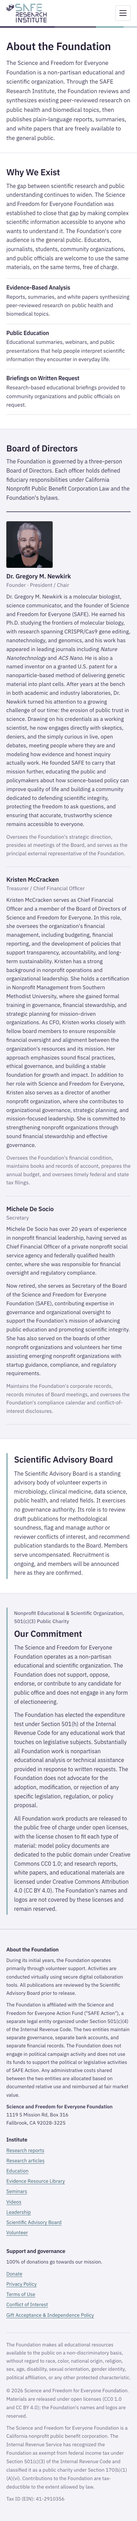
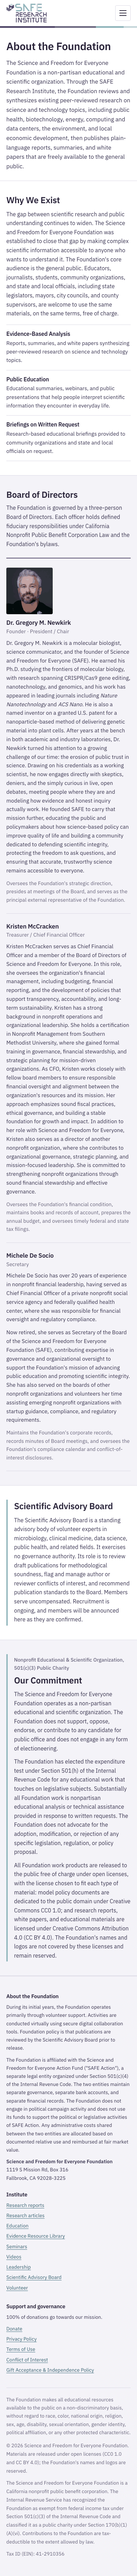
Copy: widen scope to science and technology, name state and local audiences, state review as policy
The Institute's stated scope is now science and technology topics with
public health as one area. The audience sentence names state and local
officials. Lines that said publications "are reviewed" by the Scientific
Advisory Board now state it as Foundation policy, because no board
members are named yet.

Changed region(s): [[0.0308, 0.0, 0.9231, 0.9983], [0.0308, 0.624, 0.0615, 0.6551]]

diff --git a/index.html b/index.html
@@ -4,12 +4,12 @@
   <meta charset="UTF-8">
   <meta name="viewport" content="width=device-width, initial-scale=1.0">
   <title>SAFE Research Institute | Evidence-Based Education for the Public</title>
-  <meta name="description" content="The SAFE Research Institute is the educational platform of the Science and Freedom for Everyone Foundation, a non-partisan public charity that translates peer-reviewed research into clear, accessible information on public health and biomedical science.">
+  <meta name="description" content="The SAFE Research Institute is the educational platform of the Science and Freedom for Everyone Foundation, a non-partisan public charity that translates peer-reviewed research into clear, accessible information on science and technology, from public health and biotechnology to energy, computing, and the environment.">
   <link rel="canonical" href="https://saferi.org/">
   <meta property="og:type" content="website">
   <meta property="og:site_name" content="SAFE Research Institute">
   <meta property="og:title" content="SAFE Research Institute | Evidence-Based Education for the Public">
-  <meta property="og:description" content="Plain-language analyses of peer-reviewed health and biomedical research, freely available to the public.">
+  <meta property="og:description" content="Plain-language analyses of peer-reviewed science and technology research, freely available to the public.">
   <meta property="og:url" content="https://saferi.org/">
   <meta property="og:image" content="https://saferi.org/img/og/default.png">
   <meta property="og:image:width" content="1200">
@@ -49,7 +49,7 @@
   <div class="container">
     <div>
       <h1>Peer-reviewed research, translated into clear, accessible information.</h1>
-      <p>The Science and Freedom for Everyone Foundation is a non-partisan educational and scientific organization. Through the SAFE Research Institute, the Foundation reviews and synthesizes existing peer-reviewed research on public health and biomedical topics, then publishes plain-language reports, summaries, and white papers that are freely available to the general public.</p>
+      <p>The Science and Freedom for Everyone Foundation is a non-partisan educational and scientific organization. Through the SAFE Research Institute, the Foundation reviews and synthesizes existing peer-reviewed research on science and technology topics, including public health, biotechnology, energy, computing and data centers, the environment, and local economic development, then publishes plain-language reports, summaries, and white papers that are freely available to the general public.</p>
       <div class="hero-actions">
         <a href="research.html" class="btn btn-primary">Read the reports</a>
         <a href="about.html" class="btn btn-outline">About the Foundation</a>
@@ -70,7 +70,7 @@
       <div id="featuredCover"></div>
       <div>
         <h2>Latest</h2>
-        <p>Plain-language analyses of peer-reviewed public health and biomedical research, reviewed by the Foundation's Scientific Advisory Board.</p>
+        <p>Plain-language analyses of peer-reviewed research on science and technology topics, including public health, biotechnology, energy, computing and data centers, the environment, and local economic development. Foundation policy is that each report is reviewed by the Scientific Advisory Board before release.</p>
         <div class="table-wrap">
           <table class="data-table reports-table stack" id="latestReports">
             <thead><tr><th scope="col">Title</th><th scope="col">Date</th><th scope="col">Type</th><th scope="col">PDF</th></tr></thead>
@@ -83,7 +83,7 @@
     <div class="standards">
       <h3>Publication standards</h3>
       <dl>
-        <dt>Review</dt><dd>All publications are reviewed by the Scientific Advisory Board prior to release.</dd>
+        <dt>Review</dt><dd>Foundation policy is that each report is reviewed by the Scientific Advisory Board before release. Members are announced as they are confirmed.</dd>
         <dt>License</dt><dd>Research reports, white papers, and educational materials: CC BY 4.0.</dd>
         <dt>Access</dt><dd>Freely available to the public.</dd>
         <dt>Independence</dt><dd><a href="gift-acceptance.html">Gift Acceptance &amp; Independence Policy</a></dd>
@@ -102,7 +102,7 @@
     <div class="pillars-grid">
       <div class="pillar-card" id="activity-research">
         <h3>Research Analysis and Scientific Publications</h3>
-        <p>The Foundation reviews and synthesizes existing peer-reviewed scientific literature on public health and biomedical topics. Findings are compiled into reports, summaries, and white papers and published on the Institute's website, freely available to the public.</p>
+        <p>The Foundation reviews and synthesizes existing peer-reviewed scientific literature on science and technology topics, including public health and biomedicine. Findings are compiled into reports, summaries, and white papers and published on the Institute's website, freely available to the public.</p>
         <p class="pillar-need"><strong>Who we need:</strong> Scientists, MDs, and data scientists.</p>
         <a href="volunteer.html?group=experts" class="pillar-cta">Apply to volunteer</a>
       </div>
@@ -140,7 +140,7 @@
     <div class="why-grid">
       <div class="why-text">
         <h2>Why We Exist</h2>
-        <p>The gap between scientific research and public understanding continues to widen. The Science and Freedom for Everyone Foundation was established to close that gap by making complex scientific information accessible to anyone who wants to understand it. The Foundation's core audience is the general public. Educators, journalists, students, community organizations, and public officials are welcome to use the same materials, on the same terms, free of charge.</p>
+        <p>The gap between scientific research and public understanding continues to widen. The Science and Freedom for Everyone Foundation was established to close that gap by making complex scientific information accessible to anyone who wants to understand it. The Foundation's core audience is the general public. Educators, journalists, students, community organizations, and state and local officials, including state legislators, mayors, city councils, and county supervisors, are welcome to use the same materials, on the same terms, free of charge.</p>
         <p><a href="about.html">About the Foundation, its board, and its commitments</a></p>
       </div>
       <div>
@@ -169,7 +169,7 @@
       <a href="blog.html" class="content-card">
         <div class="content-card-tag">Research Articles</div>
         <h3>Research Publications &amp; Analysis</h3>
-        <p>Systematic review and synthesis of peer-reviewed public health and biomedical research, reviewed and approved by the Scientific Advisory Board.</p>
+        <p>Systematic review and synthesis of peer-reviewed science and technology research. Foundation policy is that publications are reviewed by the Scientific Advisory Board prior to release.</p>
       </a>
       <a href="videos.html" class="content-card">
         <div class="content-card-tag">Educational Media</div>
@@ -193,7 +193,7 @@
     <div class="footer-top">
       <div class="footer-about">
         <h3>About the Foundation</h3>
-        <p>During its initial years, the Foundation operates primarily through volunteer support. Activities are conducted virtually using secure digital collaboration tools. All publications are reviewed by the Scientific Advisory Board prior to release.</p>
+        <p>During its initial years, the Foundation operates primarily through volunteer support. Activities are conducted virtually using secure digital collaboration tools. Foundation policy is that publications are reviewed by the Scientific Advisory Board prior to release.</p>
         <p>The Foundation is affiliated with the Science and Freedom for Everyone Action Fund ("SAFE Action"), a separate legal entity organized under Section 501(c)(4) of the Internal Revenue Code. The two entities maintain separate governance, separate bank accounts, and separate financial records. The Foundation does not engage in political campaign activity and does not use its funds to support the political or legislative activities of SAFE Action. Any administrative costs shared between the two entities are allocated based on documented relative use and reimbursed at fair market value.</p>
         <address class="footer-address">
           <strong>Science and Freedom for Everyone Foundation</strong><br>

diff --git a/research.html b/research.html
@@ -4,12 +4,12 @@
   <meta charset="UTF-8">
   <meta name="viewport" content="width=device-width, initial-scale=1.0">
   <title>Research Reports | SAFE Research Institute</title>
-  <meta name="description" content="Research reports from the SAFE Research Institute: plain-language analyses of peer-reviewed public health and biomedical research, reviewed by the Foundation's Scientific Advisory Board and free to the public.">
+  <meta name="description" content="Research reports from the SAFE Research Institute: plain-language analyses of peer-reviewed research on science and technology topics, free to the public.">
   <link rel="canonical" href="https://saferi.org/research">
   <meta property="og:type" content="website">
   <meta property="og:site_name" content="SAFE Research Institute">
   <meta property="og:title" content="Research Reports | SAFE Research Institute">
-  <meta property="og:description" content="Research reports from the SAFE Research Institute: plain-language analyses of peer-reviewed public health and biomedical research, reviewed by the Foundation's Scientific Advisory Board and free to the public.">
+  <meta property="og:description" content="Research reports from the SAFE Research Institute: plain-language analyses of peer-reviewed research on science and technology topics, free to the public.">
   <meta property="og:url" content="https://saferi.org/research">
   <meta property="og:image" content="https://saferi.org/img/og/default.png">
   <meta property="og:image:width" content="1200">
@@ -47,7 +47,7 @@
 <section class="legal-hero">
   <div class="container">
     <h1>Research</h1>
-    <p>Plain-language analyses of peer-reviewed public health and biomedical research, reviewed by the Foundation's Scientific Advisory Board.</p>
+    <p>Plain-language analyses of peer-reviewed research on science and technology topics, including public health, biotechnology, energy, computing and data centers, the environment, and local economic development. Foundation policy is that each report is reviewed by the Scientific Advisory Board before release.</p>
   </div>
 </section>
 
@@ -103,7 +103,7 @@
     <div class="standards">
       <h3>Publication standards</h3>
       <dl>
-        <dt>Review</dt><dd>All publications are reviewed by the Scientific Advisory Board prior to release.</dd>
+        <dt>Review</dt><dd>Foundation policy is that each report is reviewed by the Scientific Advisory Board before release. Members are announced as they are confirmed.</dd>
         <dt>License</dt><dd>Research reports, white papers, and educational materials: CC BY 4.0.</dd>
         <dt>Access</dt><dd>Freely available to the public.</dd>
         <dt>Independence</dt><dd><a href="gift-acceptance.html">Gift Acceptance &amp; Independence Policy</a></dd>
@@ -122,7 +122,7 @@
       <a href="blog.html" class="content-card">
         <div class="content-card-tag">Research Articles</div>
         <h3>Research Publications &amp; Analysis</h3>
-        <p>Systematic review and synthesis of peer-reviewed public health and biomedical research, reviewed and approved by the Scientific Advisory Board.</p>
+        <p>Systematic review and synthesis of peer-reviewed science and technology research. Foundation policy is that publications are reviewed by the Scientific Advisory Board prior to release.</p>
       </a>
       <a href="videos.html" class="content-card">
         <div class="content-card-tag">Educational Media</div>
@@ -146,7 +146,7 @@
     <div class="footer-top">
       <div class="footer-about">
         <h3>About the Foundation</h3>
-        <p>During its initial years, the Foundation operates primarily through volunteer support. Activities are conducted virtually using secure digital collaboration tools. All publications are reviewed by the Scientific Advisory Board prior to release.</p>
+        <p>During its initial years, the Foundation operates primarily through volunteer support. Activities are conducted virtually using secure digital collaboration tools. Foundation policy is that publications are reviewed by the Scientific Advisory Board prior to release.</p>
         <p>The Foundation is affiliated with the Science and Freedom for Everyone Action Fund ("SAFE Action"), a separate legal entity organized under Section 501(c)(4) of the Internal Revenue Code. The two entities maintain separate governance, separate bank accounts, and separate financial records. The Foundation does not engage in political campaign activity and does not use its funds to support the political or legislative activities of SAFE Action. Any administrative costs shared between the two entities are allocated based on documented relative use and reimbursed at fair market value.</p>
         <address class="footer-address">
           <strong>Science and Freedom for Everyone Foundation</strong><br>

diff --git a/about.html b/about.html
@@ -46,7 +46,7 @@
 <section class="legal-hero">
   <div class="container">
     <h1>About the Foundation</h1>
-    <p>The Science and Freedom for Everyone Foundation is a non-partisan educational and scientific organization. Through the SAFE Research Institute, the Foundation reviews and synthesizes existing peer-reviewed research on public health and biomedical topics, then publishes plain-language reports, summaries, and white papers that are freely available to the general public.</p>
+    <p>The Science and Freedom for Everyone Foundation is a non-partisan educational and scientific organization. Through the SAFE Research Institute, the Foundation reviews and synthesizes existing peer-reviewed research on science and technology topics, including public health, biotechnology, energy, computing and data centers, the environment, and local economic development, then publishes plain-language reports, summaries, and white papers that are freely available to the general public.</p>
   </div>
 </section>
 
@@ -55,11 +55,11 @@
   <div class="container">
     <div class="why-text">
       <h2>Why We Exist</h2>
-      <p>The gap between scientific research and public understanding continues to widen. The Science and Freedom for Everyone Foundation was established to close that gap by making complex scientific information accessible to anyone who wants to understand it. The Foundation's core audience is the general public. Educators, journalists, students, community organizations, and public officials are welcome to use the same materials, on the same terms, free of charge.</p>
+      <p>The gap between scientific research and public understanding continues to widen. The Science and Freedom for Everyone Foundation was established to close that gap by making complex scientific information accessible to anyone who wants to understand it. The Foundation's core audience is the general public. Educators, journalists, students, community organizations, and state and local officials, including state legislators, mayors, city councils, and county supervisors, are welcome to use the same materials, on the same terms, free of charge.</p>
       <div class="why-features">
           <div class="why-feature">
             <h4>Evidence-Based Analysis</h4>
-            <p>Reports, summaries, and white papers synthesizing peer-reviewed research on public health and biomedical topics.</p>
+            <p>Reports, summaries, and white papers synthesizing peer-reviewed research on science and technology topics.</p>
           </div>
           <div class="why-feature">
             <h4>Public Education</h4>
@@ -67,7 +67,7 @@
           </div>
           <div class="why-feature">
             <h4>Briefings on Written Request</h4>
-            <p>Research-based educational briefings provided to community organizations and public officials on request.</p>
+            <p>Research-based educational briefings provided to community organizations and state and local officials on request.</p>
           </div>
       </div>
     </div>
@@ -149,7 +149,7 @@
     <div class="footer-top">
       <div class="footer-about">
         <h3>About the Foundation</h3>
-        <p>During its initial years, the Foundation operates primarily through volunteer support. Activities are conducted virtually using secure digital collaboration tools. All publications are reviewed by the Scientific Advisory Board prior to release.</p>
+        <p>During its initial years, the Foundation operates primarily through volunteer support. Activities are conducted virtually using secure digital collaboration tools. Foundation policy is that publications are reviewed by the Scientific Advisory Board prior to release.</p>
         <p>The Foundation is affiliated with the Science and Freedom for Everyone Action Fund ("SAFE Action"), a separate legal entity organized under Section 501(c)(4) of the Internal Revenue Code. The two entities maintain separate governance, separate bank accounts, and separate financial records. The Foundation does not engage in political campaign activity and does not use its funds to support the political or legislative activities of SAFE Action. Any administrative costs shared between the two entities are allocated based on documented relative use and reimbursed at fair market value.</p>
         <address class="footer-address">
           <strong>Science and Freedom for Everyone Foundation</strong><br>

diff --git a/docs/templates/report.html b/docs/templates/report.html
@@ -89,7 +89,7 @@
       <li>{{REFERENCE}}</li>
     </ol>
 
-    <p class="report-note">This report is published by the SAFE Research Institute, the educational platform of the Science and Freedom for Everyone Foundation, for educational purposes. It presents facts, methodology, and the state of the scientific evidence. The Foundation does not recommend the adoption, modification, or rejection of any specific legislation, regulation, or policy proposal. All publications are reviewed by the Scientific Advisory Board prior to release.</p>
+    <p class="report-note">This report is published by the SAFE Research Institute, the educational platform of the Science and Freedom for Everyone Foundation, for educational purposes. It presents facts, methodology, and the state of the scientific evidence. The Foundation does not recommend the adoption, modification, or rejection of any specific legislation, regulation, or policy proposal. Foundation policy is that publications are reviewed by the Scientific Advisory Board prior to release.</p>
   </article>
 </div>
 
@@ -101,7 +101,7 @@
     <div class="footer-top">
       <div class="footer-about">
         <h3>About the Foundation</h3>
-        <p>During its initial years, the Foundation operates primarily through volunteer support. Activities are conducted virtually using secure digital collaboration tools. All publications are reviewed by the Scientific Advisory Board prior to release.</p>
+        <p>During its initial years, the Foundation operates primarily through volunteer support. Activities are conducted virtually using secure digital collaboration tools. Foundation policy is that publications are reviewed by the Scientific Advisory Board prior to release.</p>
         <p>The Foundation is affiliated with the Science and Freedom for Everyone Action Fund ("SAFE Action"), a separate legal entity organized under Section 501(c)(4) of the Internal Revenue Code. The two entities maintain separate governance, separate bank accounts, and separate financial records. The Foundation does not engage in political campaign activity and does not use its funds to support the political or legislative activities of SAFE Action. Any administrative costs shared between the two entities are allocated based on documented relative use and reimbursed at fair market value.</p>
         <address class="footer-address">
           <strong>Science and Freedom for Everyone Foundation</strong><br>

diff --git a/donate.html b/donate.html
@@ -138,7 +138,7 @@
         </div>
         <div class="pillar-focus">Activity 01</div>
         <h3>Research Analysis and Scientific Publications</h3>
-        <p>Fund systematic review and synthesis of peer-reviewed research on public health and biomedical topics, published as reports, summaries, and white papers freely available to the public.</p>
+        <p>Fund systematic review and synthesis of peer-reviewed research on science and technology topics, published as reports, summaries, and white papers freely available to the public.</p>
       </div>
 
       <!-- Activity 02 -->
@@ -220,7 +220,7 @@
     <div class="footer-top">
       <div class="footer-about">
         <h3>About the Foundation</h3>
-        <p>During its initial years, the Foundation operates primarily through volunteer support. Activities are conducted virtually using secure digital collaboration tools. All publications are reviewed by the Scientific Advisory Board prior to release.</p>
+        <p>During its initial years, the Foundation operates primarily through volunteer support. Activities are conducted virtually using secure digital collaboration tools. Foundation policy is that publications are reviewed by the Scientific Advisory Board prior to release.</p>
         <p>The Foundation is affiliated with the Science and Freedom for Everyone Action Fund ("SAFE Action"), a separate legal entity organized under Section 501(c)(4) of the Internal Revenue Code. The two entities maintain separate governance, separate bank accounts, and separate financial records. The Foundation does not engage in political campaign activity and does not use its funds to support the political or legislative activities of SAFE Action. Any administrative costs shared between the two entities are allocated based on documented relative use and reimbursed at fair market value.</p>
         <address class="footer-address">
           <strong>Science and Freedom for Everyone Foundation</strong><br>

diff --git a/admin.html b/admin.html
@@ -359,7 +359,7 @@
     <div class="footer-top">
       <div class="footer-about">
         <h3>About the Foundation</h3>
-        <p>During its initial years, the Foundation operates primarily through volunteer support. Activities are conducted virtually using secure digital collaboration tools. All publications are reviewed by the Scientific Advisory Board prior to release.</p>
+        <p>During its initial years, the Foundation operates primarily through volunteer support. Activities are conducted virtually using secure digital collaboration tools. Foundation policy is that publications are reviewed by the Scientific Advisory Board prior to release.</p>
         <p>The Foundation is affiliated with the Science and Freedom for Everyone Action Fund ("SAFE Action"), a separate legal entity organized under Section 501(c)(4) of the Internal Revenue Code. The two entities maintain separate governance, separate bank accounts, and separate financial records. The Foundation does not engage in political campaign activity and does not use its funds to support the political or legislative activities of SAFE Action. Any administrative costs shared between the two entities are allocated based on documented relative use and reimbursed at fair market value.</p>
         <address class="footer-address">
           <strong>Science and Freedom for Everyone Foundation</strong><br>

diff --git a/blog.html b/blog.html
@@ -134,7 +134,7 @@
     <div class="footer-top">
       <div class="footer-about">
         <h3>About the Foundation</h3>
-        <p>During its initial years, the Foundation operates primarily through volunteer support. Activities are conducted virtually using secure digital collaboration tools. All publications are reviewed by the Scientific Advisory Board prior to release.</p>
+        <p>During its initial years, the Foundation operates primarily through volunteer support. Activities are conducted virtually using secure digital collaboration tools. Foundation policy is that publications are reviewed by the Scientific Advisory Board prior to release.</p>
         <p>The Foundation is affiliated with the Science and Freedom for Everyone Action Fund ("SAFE Action"), a separate legal entity organized under Section 501(c)(4) of the Internal Revenue Code. The two entities maintain separate governance, separate bank accounts, and separate financial records. The Foundation does not engage in political campaign activity and does not use its funds to support the political or legislative activities of SAFE Action. Any administrative costs shared between the two entities are allocated based on documented relative use and reimbursed at fair market value.</p>
         <address class="footer-address">
           <strong>Science and Freedom for Everyone Foundation</strong><br>

diff --git a/conflict-of-interest.html b/conflict-of-interest.html
@@ -136,7 +136,7 @@
     <div class="footer-top">
       <div class="footer-about">
         <h3>About the Foundation</h3>
-        <p>During its initial years, the Foundation operates primarily through volunteer support. Activities are conducted virtually using secure digital collaboration tools. All publications are reviewed by the Scientific Advisory Board prior to release.</p>
+        <p>During its initial years, the Foundation operates primarily through volunteer support. Activities are conducted virtually using secure digital collaboration tools. Foundation policy is that publications are reviewed by the Scientific Advisory Board prior to release.</p>
         <p>The Foundation is affiliated with the Science and Freedom for Everyone Action Fund ("SAFE Action"), a separate legal entity organized under Section 501(c)(4) of the Internal Revenue Code. The two entities maintain separate governance, separate bank accounts, and separate financial records. The Foundation does not engage in political campaign activity and does not use its funds to support the political or legislative activities of SAFE Action. Any administrative costs shared between the two entities are allocated based on documented relative use and reimbursed at fair market value.</p>
         <address class="footer-address">
           <strong>Science and Freedom for Everyone Foundation</strong><br>

diff --git a/education.html b/education.html
@@ -391,7 +391,7 @@
     <div class="footer-top">
       <div class="footer-about">
         <h3>About the Foundation</h3>
-        <p>During its initial years, the Foundation operates primarily through volunteer support. Activities are conducted virtually using secure digital collaboration tools. All publications are reviewed by the Scientific Advisory Board prior to release.</p>
+        <p>During its initial years, the Foundation operates primarily through volunteer support. Activities are conducted virtually using secure digital collaboration tools. Foundation policy is that publications are reviewed by the Scientific Advisory Board prior to release.</p>
         <p>The Foundation is affiliated with the Science and Freedom for Everyone Action Fund ("SAFE Action"), a separate legal entity organized under Section 501(c)(4) of the Internal Revenue Code. The two entities maintain separate governance, separate bank accounts, and separate financial records. The Foundation does not engage in political campaign activity and does not use its funds to support the political or legislative activities of SAFE Action. Any administrative costs shared between the two entities are allocated based on documented relative use and reimbursed at fair market value.</p>
         <address class="footer-address">
           <strong>Science and Freedom for Everyone Foundation</strong><br>

diff --git a/policies.html b/policies.html
@@ -122,7 +122,7 @@
     <div class="footer-top">
       <div class="footer-about">
         <h3>About the Foundation</h3>
-        <p>During its initial years, the Foundation operates primarily through volunteer support. Activities are conducted virtually using secure digital collaboration tools. All publications are reviewed by the Scientific Advisory Board prior to release.</p>
+        <p>During its initial years, the Foundation operates primarily through volunteer support. Activities are conducted virtually using secure digital collaboration tools. Foundation policy is that publications are reviewed by the Scientific Advisory Board prior to release.</p>
         <p>The Foundation is affiliated with the Science and Freedom for Everyone Action Fund ("SAFE Action"), a separate legal entity organized under Section 501(c)(4) of the Internal Revenue Code. The two entities maintain separate governance, separate bank accounts, and separate financial records. The Foundation does not engage in political campaign activity and does not use its funds to support the political or legislative activities of SAFE Action. Any administrative costs shared between the two entities are allocated based on documented relative use and reimbursed at fair market value.</p>
         <address class="footer-address">
           <strong>Science and Freedom for Everyone Foundation</strong><br>

diff --git a/policy.html b/policy.html
@@ -131,7 +131,7 @@
     <div class="footer-top">
       <div class="footer-about">
         <h3>About the Foundation</h3>
-        <p>During its initial years, the Foundation operates primarily through volunteer support. Activities are conducted virtually using secure digital collaboration tools. All publications are reviewed by the Scientific Advisory Board prior to release.</p>
+        <p>During its initial years, the Foundation operates primarily through volunteer support. Activities are conducted virtually using secure digital collaboration tools. Foundation policy is that publications are reviewed by the Scientific Advisory Board prior to release.</p>
         <p>The Foundation is affiliated with the Science and Freedom for Everyone Action Fund ("SAFE Action"), a separate legal entity organized under Section 501(c)(4) of the Internal Revenue Code. The two entities maintain separate governance, separate bank accounts, and separate financial records. The Foundation does not engage in political campaign activity and does not use its funds to support the political or legislative activities of SAFE Action. Any administrative costs shared between the two entities are allocated based on documented relative use and reimbursed at fair market value.</p>
         <address class="footer-address">
           <strong>Science and Freedom for Everyone Foundation</strong><br>

diff --git a/privacy.html b/privacy.html
@@ -108,7 +108,7 @@
     <div class="footer-top">
       <div class="footer-about">
         <h3>About the Foundation</h3>
-        <p>During its initial years, the Foundation operates primarily through volunteer support. Activities are conducted virtually using secure digital collaboration tools. All publications are reviewed by the Scientific Advisory Board prior to release.</p>
+        <p>During its initial years, the Foundation operates primarily through volunteer support. Activities are conducted virtually using secure digital collaboration tools. Foundation policy is that publications are reviewed by the Scientific Advisory Board prior to release.</p>
         <p>The Foundation is affiliated with the Science and Freedom for Everyone Action Fund ("SAFE Action"), a separate legal entity organized under Section 501(c)(4) of the Internal Revenue Code. The two entities maintain separate governance, separate bank accounts, and separate financial records. The Foundation does not engage in political campaign activity and does not use its funds to support the political or legislative activities of SAFE Action. Any administrative costs shared between the two entities are allocated based on documented relative use and reimbursed at fair market value.</p>
         <address class="footer-address">
           <strong>Science and Freedom for Everyone Foundation</strong><br>
